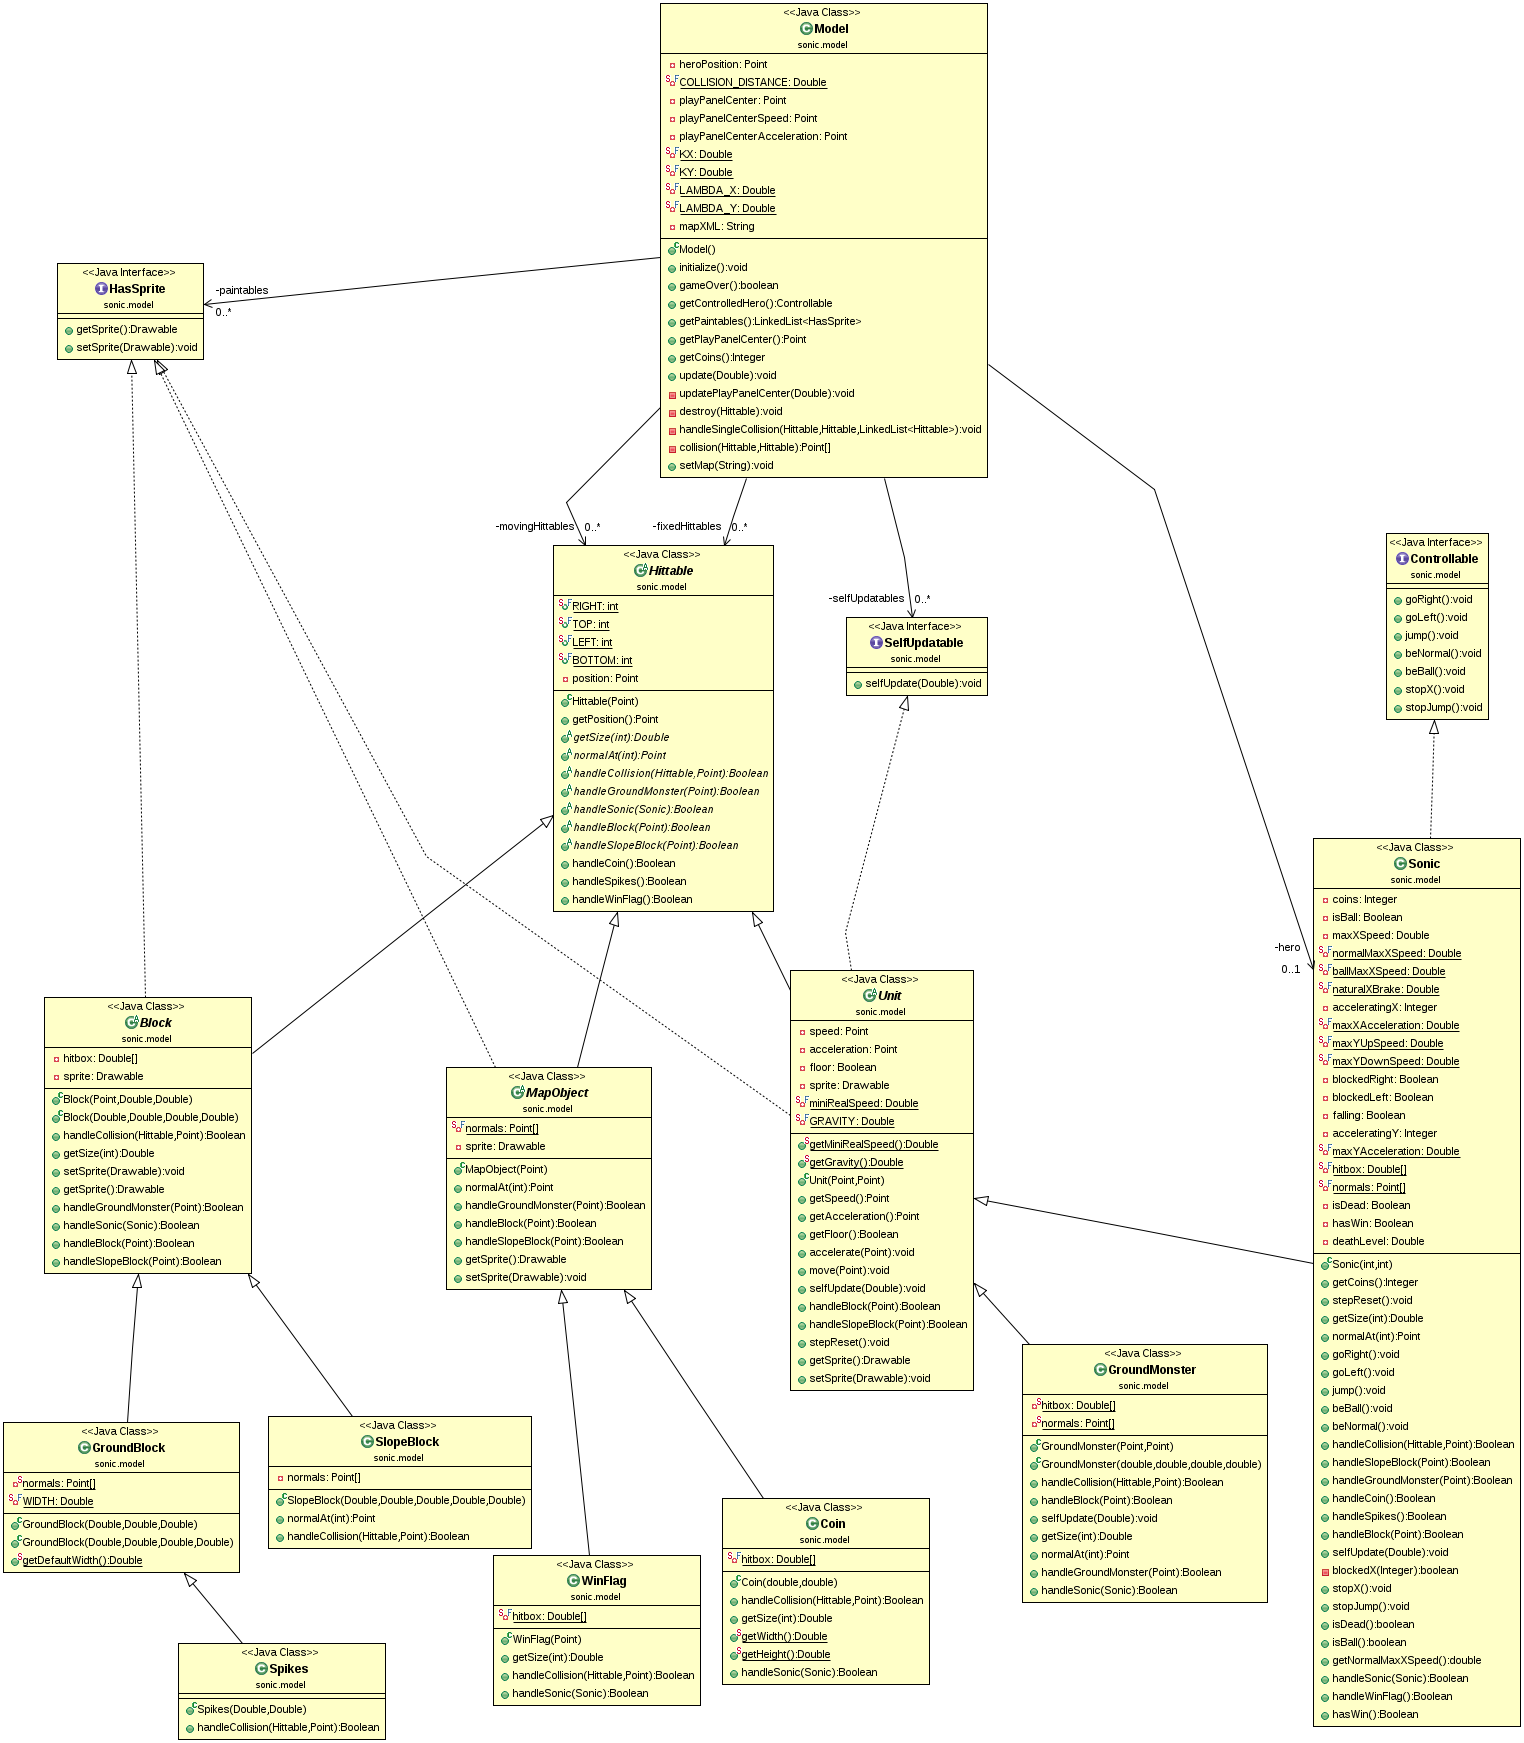
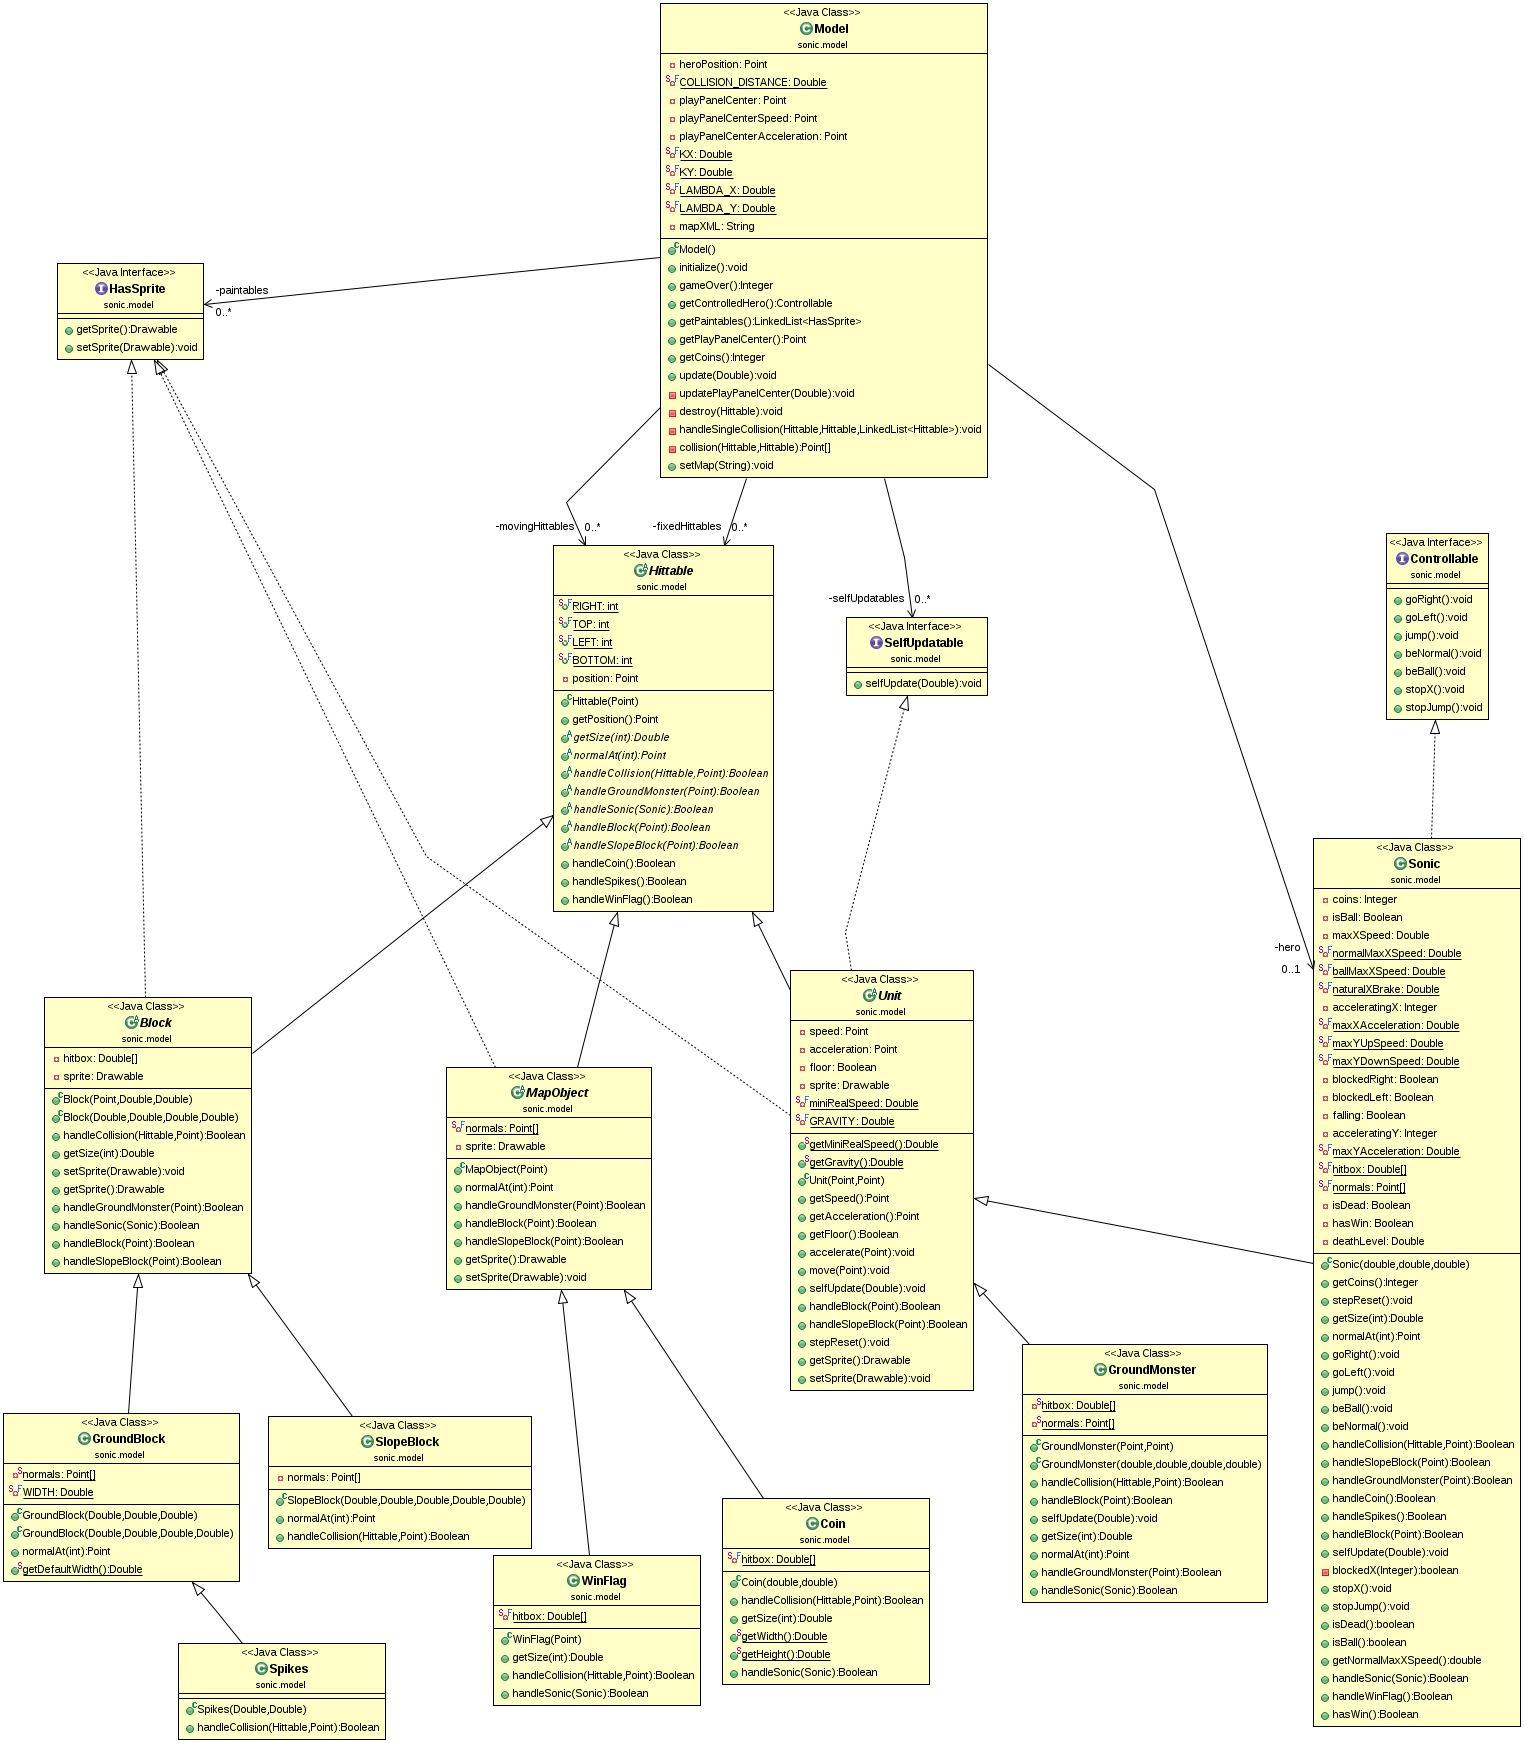
better map, sprite for slope, this

Changed region(s): [[0.0, 0.8055, 0.1542, 0.9294]]

diff --git a/src/sonic/model/Map.java b/src/sonic/model/Map.java
@@ -25,10 +25,10 @@ public class Map {
 
 	public Map(String mapXML){
 
-		fixedHittables = new LinkedList<Hittable>();
-		selfUpdatables = new LinkedList<SelfUpdatable>();
-		movingHittables = new ArrayList<Hittable>();
-		paintables = new LinkedList<HasSprite>();
+		this.fixedHittables = new LinkedList<Hittable>();
+		this.selfUpdatables = new LinkedList<SelfUpdatable>();
+		this.movingHittables = new ArrayList<Hittable>();
+		this.paintables = new LinkedList<HasSprite>();
 		try {
 			File XmlFile = new File(mapXML);
 			DocumentBuilderFactory dbFactory = DocumentBuilderFactory.newInstance();
@@ -44,21 +44,21 @@ public class Map {
 					throw new Exception("More than 1 terrain defined!");
 				}
 				else{
-					createTerrain(terrains.item(0));
+					this.createTerrain(terrains.item(0));
 				}
 				NodeList monstersSets = doc.getElementsByTagName("monsters");
 				if (monstersSets.getLength()>1){
 					throw new Exception("More than 1 set of monsters defined!");
 				}
 				else{
-					createMonsters(monstersSets.item(0));
+					this.createMonsters(monstersSets.item(0));
 				}
 				NodeList heroes = doc.getElementsByTagName("sonic");
 				if (heroes.getLength()>1){
 					throw new Exception("More than 1 hero defined!");
 				}
 				else{
-					createSonic(heroes.item(0));
+					this.createSonic(heroes.item(0));
 				}
 			}
 
@@ -70,13 +70,13 @@ public class Map {
 	private void createSonic(Node sonicNode){
 		if (sonicNode.getNodeType() == Node.ELEMENT_NODE) {
 			Element sonicElement = (Element) sonicNode;
-			hero = new Sonic(Double.valueOf(sonicElement.getAttribute("X")),
-					Double.valueOf(sonicElement.getAttribute("Y")), deathLevel);
+			this.hero = new Sonic(Double.valueOf(sonicElement.getAttribute("X")),
+					Double.valueOf(sonicElement.getAttribute("Y")), this.deathLevel);
 		}
 
-		paintables.add(hero);
-		movingHittables.add(hero);
-		selfUpdatables.add(hero);
+		this.paintables.add(this.hero);
+		this.movingHittables.add(this.hero);
+		this.selfUpdatables.add(this.hero);
 	}
 
 	private void createMonsters(Node monsters) {
@@ -84,8 +84,8 @@ public class Map {
 		NodeList crabsList = monstersE.getElementsByTagName("crab");
 		NodeList bombsList = monstersE.getElementsByTagName("bomb");
 
-		createBombs(bombsList);
-		createCrabs(crabsList);
+		this.createBombs(bombsList);
+		this.createCrabs(crabsList);
 	}
 
 	private void createCrabs(NodeList crabsList) {
@@ -97,9 +97,9 @@ public class Map {
 						Double.valueOf(crabElement.getAttribute("Y")),
 						Double.valueOf(crabElement.getAttribute("vX")),
 						0.0);
-				paintables.add(crab);
-				movingHittables.add(crab);
-				selfUpdatables.add(crab);
+				this.paintables.add(crab);
+				this.movingHittables.add(crab);
+				this.selfUpdatables.add(crab);
 			}
 		}
 	}
@@ -114,28 +114,28 @@ public class Map {
 						Double.valueOf(bombElement.getAttribute("vX")),
 						0.0);
 				bomb.setSprite(new BombSprite(bomb));
-				paintables.add(bomb);
-				movingHittables.add(bomb);
-				selfUpdatables.add(bomb);
+				this.paintables.add(bomb);
+				this.movingHittables.add(bomb);
+				this.selfUpdatables.add(bomb);
 			}
 		}
 	}
 
 	private void createTerrain(Node terrain) {
 		Element terrainE = (Element) terrain;
-		deathLevel = Double.valueOf(terrainE.getAttribute("deathLevel"));
+		this.deathLevel = Double.valueOf(terrainE.getAttribute("deathLevel"));
 		NodeList groundList = terrainE.getElementsByTagName("ground");
 		NodeList slopesList = terrainE.getElementsByTagName("slope");
 		NodeList obstacleBlockList = terrainE.getElementsByTagName("obstacle");
 		NodeList coinsList = terrainE.getElementsByTagName("coins");
 		NodeList spikesList = terrainE.getElementsByTagName("spikes");
 		NodeList winFlagsList = terrainE.getElementsByTagName("win");
-		createGround(groundList);
-		createObstacles(obstacleBlockList);
-		createSlopes(slopesList);
-		createCoins(coinsList);
-		createSpikes(spikesList);
-		createWinFlags(winFlagsList);
+		this.createGround(groundList);
+		this.createObstacles(obstacleBlockList);
+		this.createSlopes(slopesList);
+		this.createCoins(coinsList);
+		this.createSpikes(spikesList);
+		this.createWinFlags(winFlagsList);
 	}
 
 	private void createWinFlags(NodeList winFlagsList) {
@@ -147,8 +147,8 @@ public class Map {
 						Double.valueOf(Double.valueOf(wFElement.getAttribute("X"))),
 						Double.valueOf(wFElement.getAttribute("level"))));
 
-				fixedHittables.add(winFlag);
-				paintables.add(winFlag);
+				this.fixedHittables.add(winFlag);
+				this.paintables.add(winFlag);
 			}
 		}
 	}
@@ -162,8 +162,8 @@ public class Map {
 						Double.valueOf(Double.valueOf(spikeElement.getAttribute("X"))),
 						Double.valueOf(spikeElement.getAttribute("level")));
 
-				fixedHittables.add(spike);
-				paintables.add(spike);
+				this.fixedHittables.add(spike);
+				this.paintables.add(spike);
 			}
 		}
 	}
@@ -181,8 +181,8 @@ public class Map {
 				while (thisX < end ){
 					for (int j = 0; j<vertQty; j++){
 						Coin coin = new Coin(thisX,level+j*Coin.getHeight());
-						paintables.add(coin);
-						fixedHittables.add(coin);
+						this.paintables.add(coin);
+						this.fixedHittables.add(coin);
 					}
 					thisX+=Coin.getWidth();
 				}
@@ -201,13 +201,12 @@ public class Map {
 						Double.valueOf(sElement.getAttribute("startLevel")),
 						Double.valueOf(sElement.getAttribute("endLevel")));
 
-				fixedHittables.addAll(slope.getBlocks());
-				for (Block slopeBlock : slope.getBlocks()){
-					paintables.add(slopeBlock);
-				}
+				this.fixedHittables.addAll(slope.getBlocks());
+				this.paintables.add(slope);
 			}
 		}
 	}
+
 
 	private void createObstacles(NodeList obstacleBlockList) {
 		for (int i = 0; i < obstacleBlockList.getLength(); i++){
@@ -221,8 +220,8 @@ public class Map {
 						bottom,
 						Double.valueOf(oBElement.getAttribute("height"))+bottom);
 
-				fixedHittables.add(obstacleBlock);
-				paintables.add(obstacleBlock);
+				this.fixedHittables.add(obstacleBlock);
+				this.paintables.add(obstacleBlock);
 			}
 		}
 	}
@@ -237,29 +236,29 @@ public class Map {
 						Double.valueOf(gBElement.getAttribute("end")),
 						Double.valueOf(gBElement.getAttribute("level")));
 
-				fixedHittables.add(groundBlock);
-				paintables.add(groundBlock);
+				this.fixedHittables.add(groundBlock);
+				this.paintables.add(groundBlock);
 			}
 		}
 	}
 
 	public LinkedList<SelfUpdatable> getSelfUpdatables() {
-		return selfUpdatables;
+		return this.selfUpdatables;
 	}
 
 	public ArrayList<Hittable> getMovingHittables() {
-		return movingHittables;
+		return this.movingHittables;
 	}
 
 	public LinkedList<Hittable> getfixedHittables() {
-		return fixedHittables;
+		return this.fixedHittables;
 	}
 
 	public LinkedList<HasSprite> getPaintables() {
-		return paintables;
+		return this.paintables;
 	}
 
 	public Sonic getHero(){
-		return hero;
+		return this.hero;
 	}
 }

diff --git a/src/sonic/view/SlopeSprite.java b/src/sonic/view/SlopeSprite.java
@@ -1,0 +1,61 @@
+package sonic.view;
+
+import java.awt.Color;
+import java.awt.Graphics;
+import java.awt.Polygon;
+
+import javax.swing.JPanel;
+
+import sonic.model.Slope;
+
+public class SlopeSprite implements Drawable {
+
+	private Slope slope;
+
+	public SlopeSprite(Slope slope){
+		this.slope = slope;
+	}
+
+	public void draw(Graphics g, JPanel p, Integer left, Integer top,
+			Integer windowWidth, Integer windowHeight) {
+		Polygon grass = new Polygon(new int[]{this.slope.getLeft().intValue(),
+				this.slope.getRight().intValue(),
+				this.slope.getRight().intValue(),
+				this.slope.getLeft().intValue()}
+		, new int[]{windowHeight-this.slope.getLeftHeight().intValue()-9,
+				windowHeight-this.slope.getRightHeight().intValue()-9,
+				windowHeight-this.slope.getRightHeight().intValue()+12,
+				windowHeight-this.slope.getLeftHeight().intValue()+12},
+				4);
+		Polygon mud = new Polygon(new int[]{this.slope.getLeft().intValue(),
+				this.slope.getRight().intValue(),
+				this.slope.getRight().intValue(),
+				this.slope.getLeft().intValue()}
+		, new int[]{windowHeight-this.slope.getLeftHeight().intValue()+12,
+				windowHeight-this.slope.getRightHeight().intValue()+12,
+				windowHeight-this.slope.getRightHeight().intValue()+Slope.getWidth().intValue(),
+				windowHeight-this.slope.getLeftHeight().intValue()+Slope.getWidth().intValue()},
+				4);
+
+		grass.translate(-left,top);
+		mud.translate(-left, top);
+		g.setColor(new Color(255,100,100));
+		g.fillPolygon(grass);
+		g.setColor(new Color(255,20,0));
+		g.fillPolygon(mud);
+
+		/*int posX =  this.slope.getPosition().getX().intValue();
+
+
+		int posY = this.slope.getPosition().getY().intValue();
+		int thisLeft = posX-this.slope.getSize(Hittable.LEFT).intValue()-left;
+		int width = Double.valueOf(this.slope.getSize(Hittable.LEFT)+this.slope.getSize(Hittable.RIGHT)).intValue();
+		int thisTop = posY+this.slope.getSize(Hittable.TOP).intValue()-top;
+		int height = Double.valueOf(this.slope.getSize(Hittable.TOP)+this.slope.getSize(Hittable.BOTTOM)).intValue();
+		g.setColor(new Color(139, 69, 19));
+		g.fillRect(thisLeft,windowHeight-thisTop,width+1,height-10);
+		g.setColor(new Color(0,139,0));
+		g.fillRect(thisLeft,windowHeight-thisTop-10, width+1, 10);*/
+
+	}
+}

diff --git a/src/sonic/model/Slope.java b/src/sonic/model/Slope.java
@@ -2,28 +2,76 @@ package sonic.model;
 
 import java.util.LinkedList;
 
-public class Slope{
-	LinkedList<Block> blocks;
+import sonic.view.Drawable;
+import sonic.view.SlopeSprite;
 
-	Integer step = 5;
-	private static final Double WIDTH = GroundBlock.getDefaultWidth();
+public class Slope implements HasSprite{
+	private final LinkedList<Block> blocks;
+	private Drawable sprite;
+	private Double left;
+	private Double right;
+	private Double leftHeight;
+	private Double rightHeight;
+
+
+	private static final Integer step = 5;
+	private static final Double WIDTH = GroundBlock.getDefaultWidth()/1.5;
 	public Slope(Double left, Double right, Double leftHeight, Double rightHeight){
-		blocks = new LinkedList<Block>();
+
+		this.left = left;
+		this.right = right;
+		this.leftHeight = leftHeight;
+		this.rightHeight = rightHeight;
+
+		this.blocks = new LinkedList<Block>();
 		Double slopeCoeff = Double.valueOf((leftHeight - rightHeight)/(left-right));
 
 
-		blocks.add(new GroundBlock(left-2,left,leftHeight,leftHeight-WIDTH));
-		blocks.add(new GroundBlock(right,right+2,rightHeight,rightHeight-WIDTH));
+		this.blocks.add(new GroundBlock(left-2,left,leftHeight,leftHeight-WIDTH));
+		this.blocks.add(new GroundBlock(right,right+2,rightHeight,rightHeight-WIDTH));
 
 		Integer i =1;
 		while (left+i <= right){
-			blocks.add(new SlopeBlock(left +i,left+i+step,leftHeight+slopeCoeff*i,leftHeight+slopeCoeff*i-WIDTH, slopeCoeff));
-			i+=step;
+			this.blocks.add(new SlopeBlock(left +i,left+i+Slope.step,leftHeight+slopeCoeff*i,leftHeight+slopeCoeff*i-WIDTH, slopeCoeff));
+			i+=Slope.step;
 		}
+
+		this.sprite = new SlopeSprite(this);
 	}
 
 	public LinkedList<Block> getBlocks(){
 		return this.blocks;
 	}
+
+	public static Double getWidth(){
+		return WIDTH;
+	}
+
+	public Double getLeft(){
+		return this.left;
+	}
+
+	public Double getRight(){
+		return this.right;
+	}
+
+	public Double getLeftHeight(){
+		return this.leftHeight;
+	}
+
+	public Double getRightHeight(){
+		return this.rightHeight;
+	}
+
+	@Override
+	public Drawable getSprite() {
+		return this.sprite;
+	}
+
+	@Override
+	public void setSprite(Drawable sprite) {
+		this.sprite = sprite;
+	}
+
 }
 
